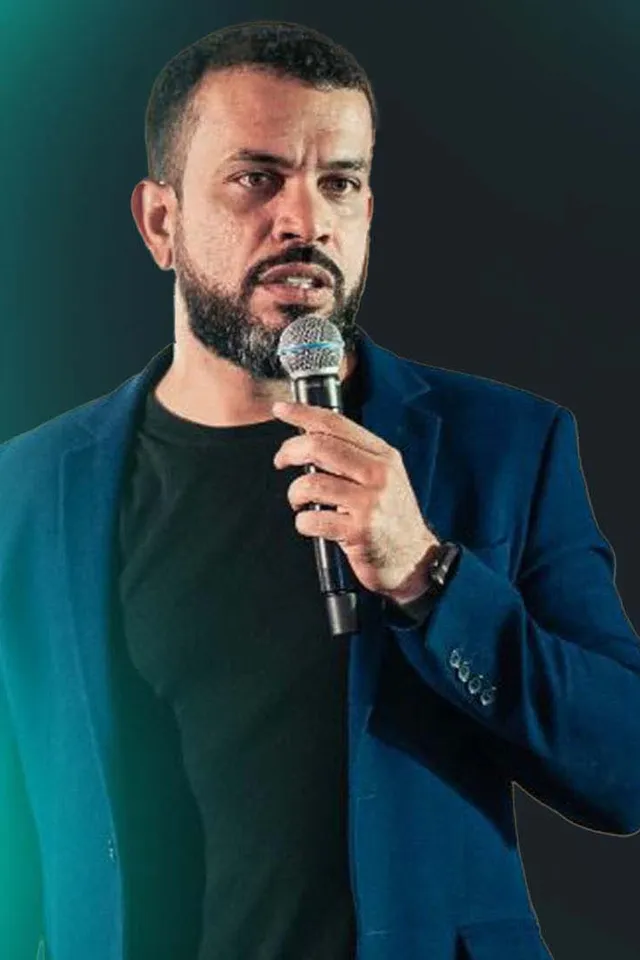
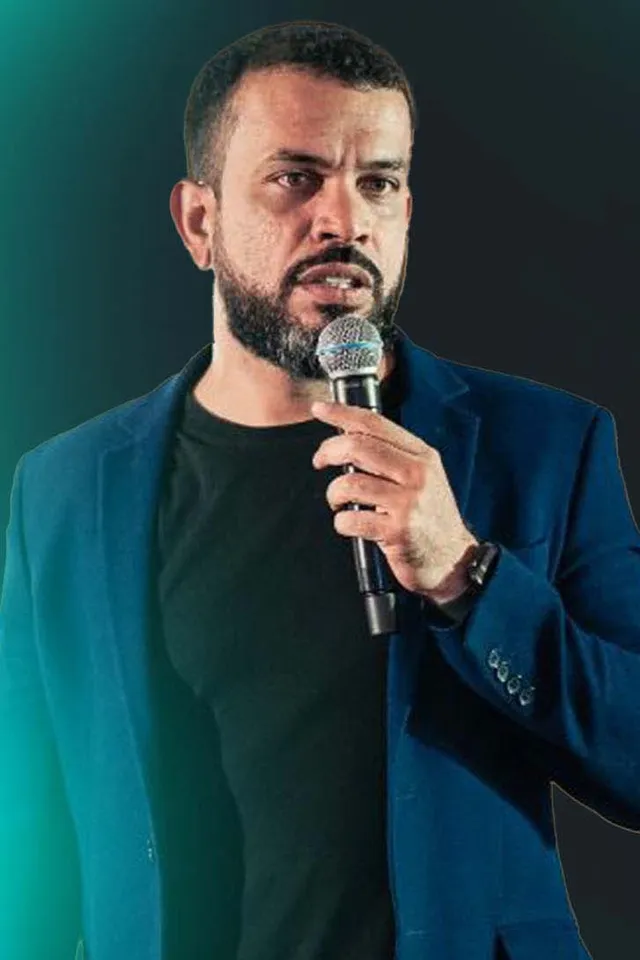
fix: capas dos cursos alinhadas e com rosto centralizado
Remove o deslocamento do card do meio e refaz os recortes com o rosto no
eixo do card. Na capa de IA na Educação, a caixa de texto gravada na foto
original é coberta pelo lado oposto espelhado.

diff --git a/app/globals.css b/app/globals.css
@@ -1665,10 +1665,6 @@ html.lenis body {
   .eco-capas li {
     max-height: 100%;
   }
-  /* a do meio sobe: as três parecem dispostas numa estante */
-  .eco-capas li:nth-child(2) {
-    translate: 0 -5%;
-  }
   .is-pinned .eco-panel--cursos {
     grid-template-columns: minmax(0, 0.72fr) minmax(0, 1.28fr);
   }
